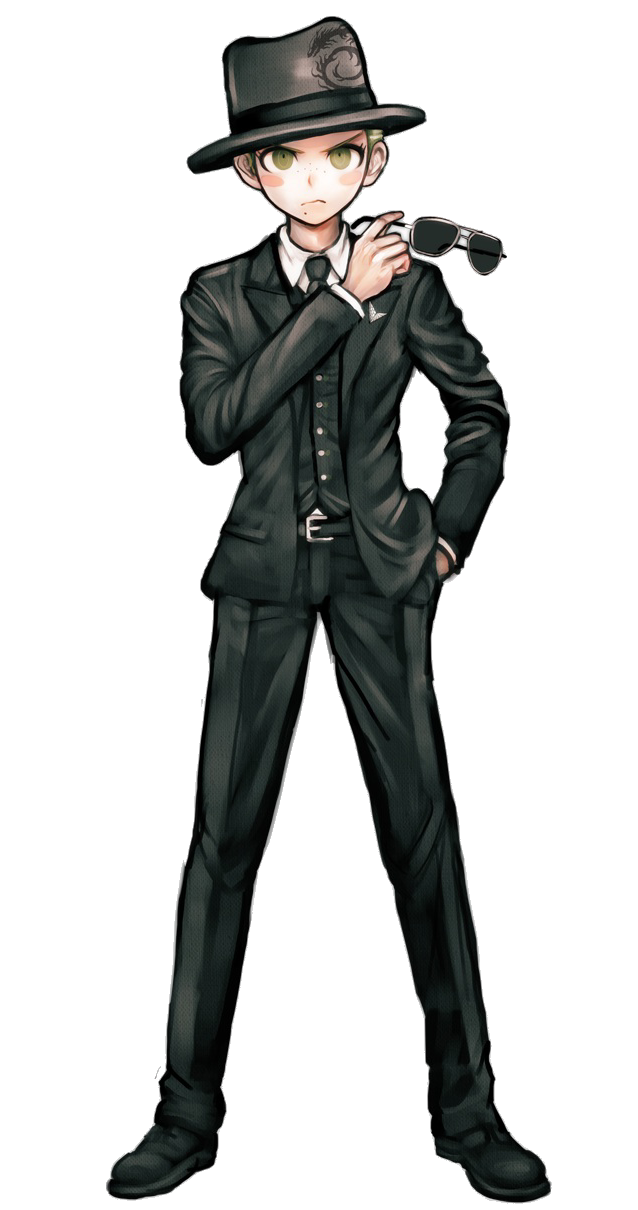
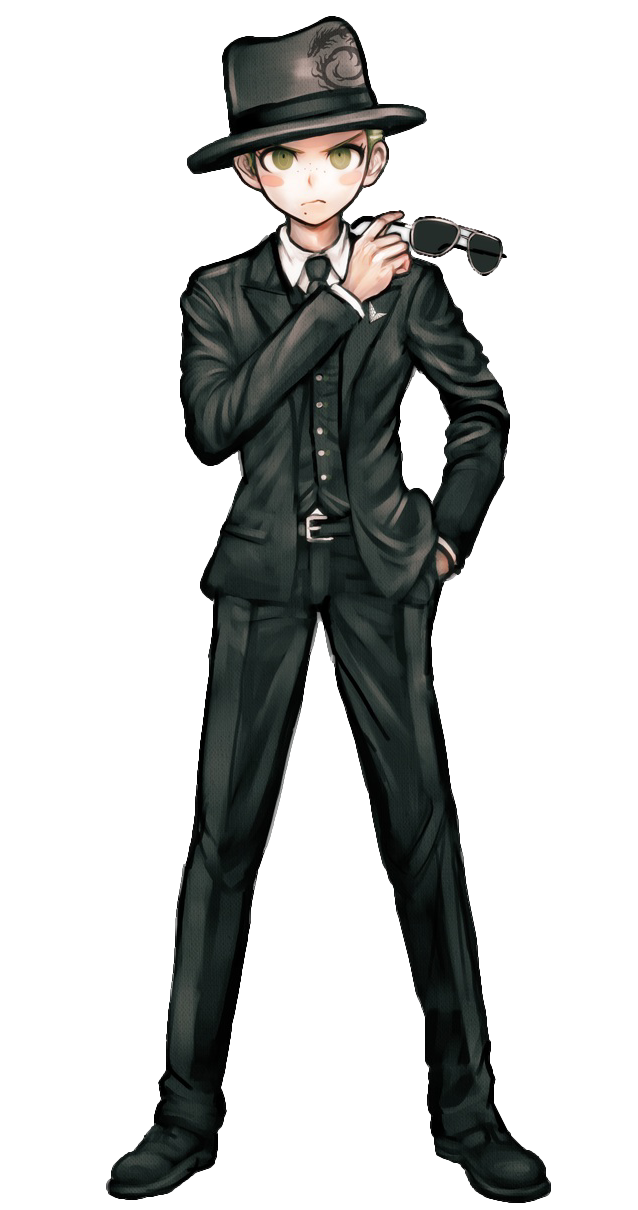
Remove baked-in white outlines from second-game Monopad art (V1.5.16)

diff --git a/index.html b/index.html
@@ -1074,10 +1074,10 @@ html[data-ui-theme="reworked"] .modal-card{border-radius:26px 4px 26px 4px;box-s
 }
 
 </style>
-<link rel="stylesheet" href="finale.css?v=20261120-3">
-<link rel="stylesheet" href="island-skin.css?v=20261120-3">
-<link rel="stylesheet" href="slayhem-and-layout.css?v=20261120-3">
-<link rel="stylesheet" href="session-planner.css?v=20261120-3">
+<link rel="stylesheet" href="finale.css?v=20261120-4">
+<link rel="stylesheet" href="island-skin.css?v=20261120-4">
+<link rel="stylesheet" href="slayhem-and-layout.css?v=20261120-4">
+<link rel="stylesheet" href="session-planner.css?v=20261120-4">
 </head>
 <body>
   <header class="topbar">
@@ -1537,7 +1537,13 @@ html[data-ui-theme="reworked"] .modal-card{border-radius:26px 4px 26px 4px;box-s
       <p class="muted small">Major changes, fixes and availability notes. Newest first; open a release to read it. Story details stay spoiler-safe.</p>
       <div class="patch-notes">
         <details class="patch-release" open>
-          <summary><span class="patch-version">V1.5.15</span><span class="patch-release-title"><strong>Game picker fix</strong><small>Current release · 20 November 2026</small></span><span class="patch-chevron">⌄</span></summary>
+          <summary><span class="patch-version">V1.5.16</span><span class="patch-release-title"><strong>Cleaner character art</strong><small>Current release · 20 November 2026</small></span><span class="patch-chevron">⌄</span></summary>
+          <div class="patch-release-body">
+            <section class="patch-note" data-reveal-game="dr2x2"><h4>No more white outlines</h4><p>Several second-game Monopad illustrations had a pale outline around them that showed up as a glow on dark cards. It has been removed and the edges are smoother.</p></section>
+          </div>
+        </details>
+        <details class="patch-release">
+          <summary><span class="patch-version">V1.5.15</span><span class="patch-release-title"><strong>Game picker fix</strong><small>20 November 2026</small></span><span class="patch-chevron">⌄</span></summary>
           <div class="patch-release-body">
             <section class="patch-note"><h4>Choose a game window</h4><p>The game list is no longer cut off or scrolled sideways on wide and medium screens.</p></section>
           </div>
@@ -2141,23 +2147,23 @@ html[data-ui-theme="reworked"] .modal-card{border-radius:26px 4px 26px 4px;box-s
 
   <script src="https://cdn.jsdelivr.net/npm/@supabase/supabase-js@2.119.0/dist/umd/supabase.js" integrity="sha384-uteMfOloLDGt042uDz+xHGF3ym63/WQ6rFq7murQRG8Ih7QrXGEGNtWd8688sb4O" crossorigin="anonymous"></script>
   <script src="supabase-config.js"></script>
-  <script src="supabase-sync.js?v=20261120-3"></script>
-  <script src="activity-history.js?v=20261120-3"></script>
-  <script src="dr2-monopad-art.js?v=20261120-3"></script>
-  <script src="admin-preview-safety.js?v=20261120-3"></script>
+  <script src="supabase-sync.js?v=20261120-4"></script>
+  <script src="activity-history.js?v=20261120-4"></script>
+  <script src="dr2-monopad-art.js?v=20261120-4"></script>
+  <script src="admin-preview-safety.js?v=20261120-4"></script>
   <script src="voice-clips-v4.js"></script>
-  <script src="monopad-data.js?v=20261120-3"></script>
-<script src="gift-guide-data.js?v=20261120-3"></script>
-  <script src="endgame-data.js?v=20261120-3"></script>
-  <script src="unconfirmed-student.js?v=20261120-3"></script>
-  <script src="session-planner.js?v=20261120-3"></script>
-  <script src="session-planner-store.js?v=20261120-3"></script>
-  <script src="session-planner-ui.js?v=20261120-3"></script>
+  <script src="monopad-data.js?v=20261120-4"></script>
+<script src="gift-guide-data.js?v=20261120-4"></script>
+  <script src="endgame-data.js?v=20261120-4"></script>
+  <script src="unconfirmed-student.js?v=20261120-4"></script>
+  <script src="session-planner.js?v=20261120-4"></script>
+  <script src="session-planner-store.js?v=20261120-4"></script>
+  <script src="session-planner-ui.js?v=20261120-4"></script>
   <script>
 
 (async () => {
   // Release marker: change it together with build.json, 11037/index.html and the ?v= numbers.
-  const APP_BUILD = "2026.11.20.3";
+  const APP_BUILD = "2026.11.20.4";
   const STORAGE_KEY = "danganronpa-cast-board-v4";
   const SESSION_ACTOR_KEY = "danganronpa-cast-active-actor-v4";
   const SESSION_GAME_KEY = "danganronpa-cast-active-game-v1";

diff --git a/dr2-monopad-art.js b/dr2-monopad-art.js
@@ -1,7 +1,7 @@
 // Local art files for the second game's Monopad, keyed by character name.
 window.CAST_DR2_MONOPAD_ART = {
-  "Hajime Hinata": "assets/monopad/dr2/hinata.gif",
-  "Nagito Komaeda": "assets/monopad/dr2/komaeda.gif",
+  "Hajime Hinata": "assets/monopad/dr2/hinata.png",
+  "Nagito Komaeda": "assets/monopad/dr2/komaeda.png",
   "Byakuya Togami": "assets/monopad/dr2/togami.png",
   "Fuyuhiko Kuzuryu": "assets/monopad/dr2/kuzuryu.png",
   "Sonia Nevermind": "assets/monopad/dr2/sonia.png",

diff --git a/11037/index.html b/11037/index.html
@@ -6,7 +6,7 @@
   <meta name="robots" content="noindex,nofollow">
   <title>Opening host controls…</title>
   <script>
-    location.replace(new URL("../?host=11037&build=2026.11.20.3", location.href));
+    location.replace(new URL("../?host=11037&build=2026.11.20.4", location.href));
   </script>
 </head>
 <body style="background:#090a0e;color:#f8f8fb;font-family:system-ui,sans-serif;padding:2rem">
